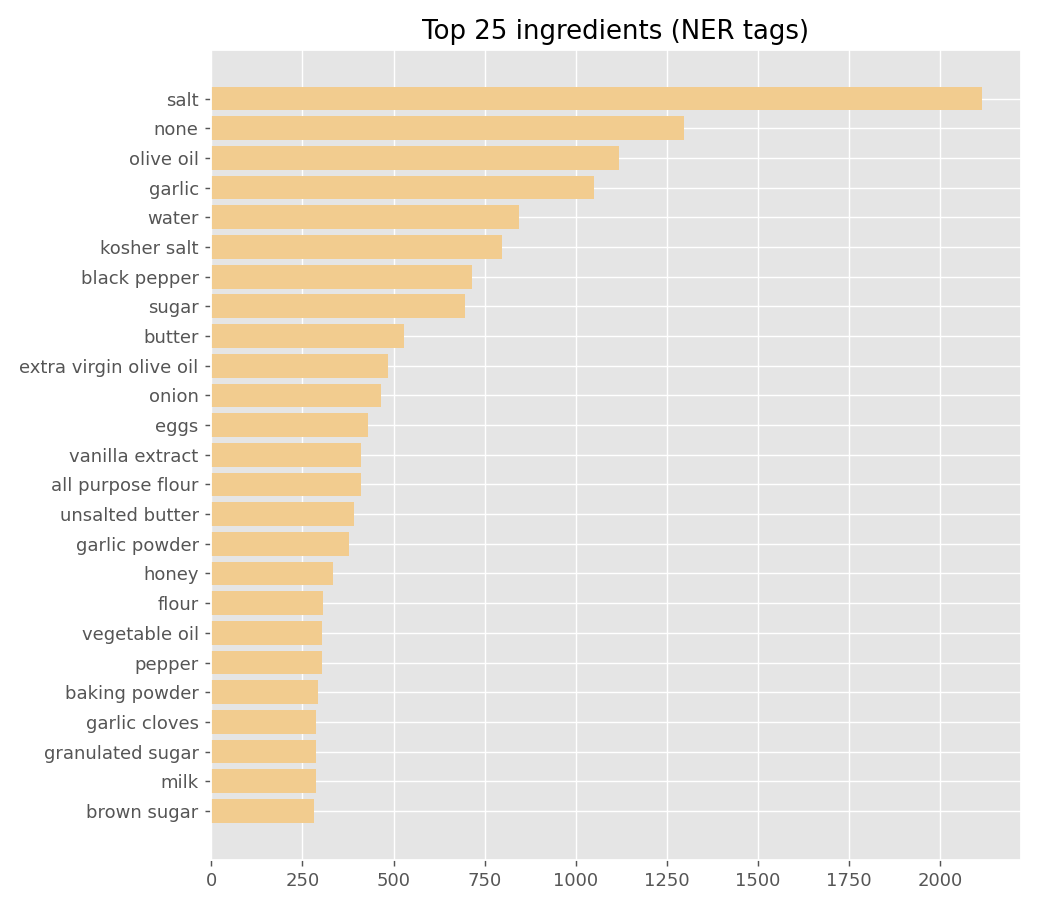
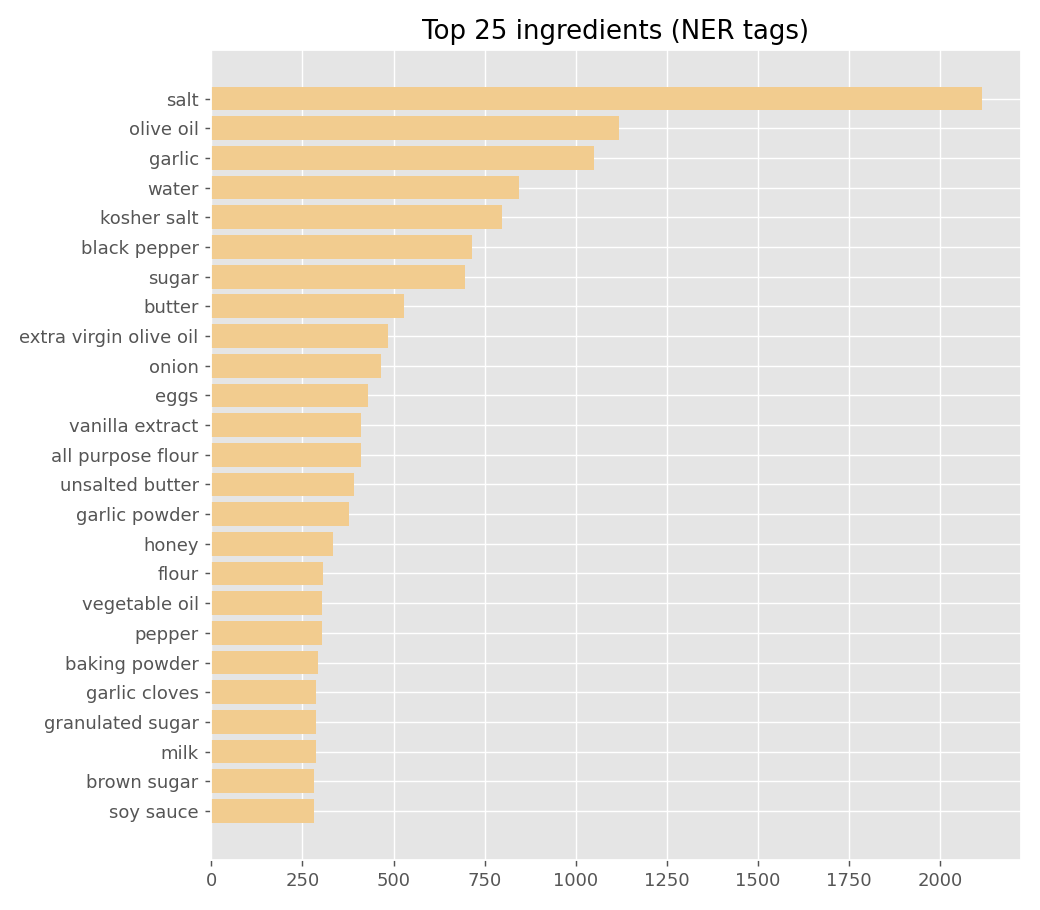
Fix: filter 'none' NER tags from preprocessing

diff --git a/data_loader.py b/data_loader.py
@@ -33,7 +33,8 @@ def _split_list(value) -> list[str]:
     text = str(value or "").strip()
     if not text or text.lower() in {"nan", "none"}:
         return []
-    return [p.strip() for p in text.split(",") if p.strip()]
+    items = [p.strip() for p in text.split(",") if p.strip()]
+    return [item for item in items if item.lower() != "none"]
 
 
 def _split_steps(value) -> list[str]:

diff --git a/README.md b/README.md
@@ -109,7 +109,7 @@ Key takeaways:
 - **All distributions are right-skewed** — most recipes are compact (≈9 ingredients, ≈10 steps) with a long tail of monsters. See `analysis/distributions.png`.
 - **`min_count=2` is validated by the data**: it discards 35% of vocabulary *types* but only 0.5% of token *occurrences* — perfect for pruning noise without losing signal.
 - **Top ingredients** (`analysis/top_ingredients.png`): `salt` (2,115), `olive oil` (1,119), `garlic` (1,050), `water`, `black pepper`, `sugar`, `butter`… The corpus is dominated by savory Western home cooking; expect the embedding neighborhood of *garlic* to include *onion*, *olive oil*, *clove*.
-- **Quirk:** 1,298 train recipes carry the literal NER tag `"none"` — a data artifact worth knowing about (harmless for retrieval; filter it if you build diet/ingredient filters on NER).
+- **Data cleaning:** 1,298 train recipes carried the literal NER tag `"none"` — filtered out in `data_loader.py` as a preprocessing step (no food signal).
 - Most frequent tokens are cooking-verbs and units (`add`, `heat`, `cup`, `teaspoon`, `until`, `minutes`) — exactly the glue words that make doc-centroids cluster by *cuisine and technique*, which is what retrieval wants.
 
 ![Dataset distributions](analysis/distributions.png)
